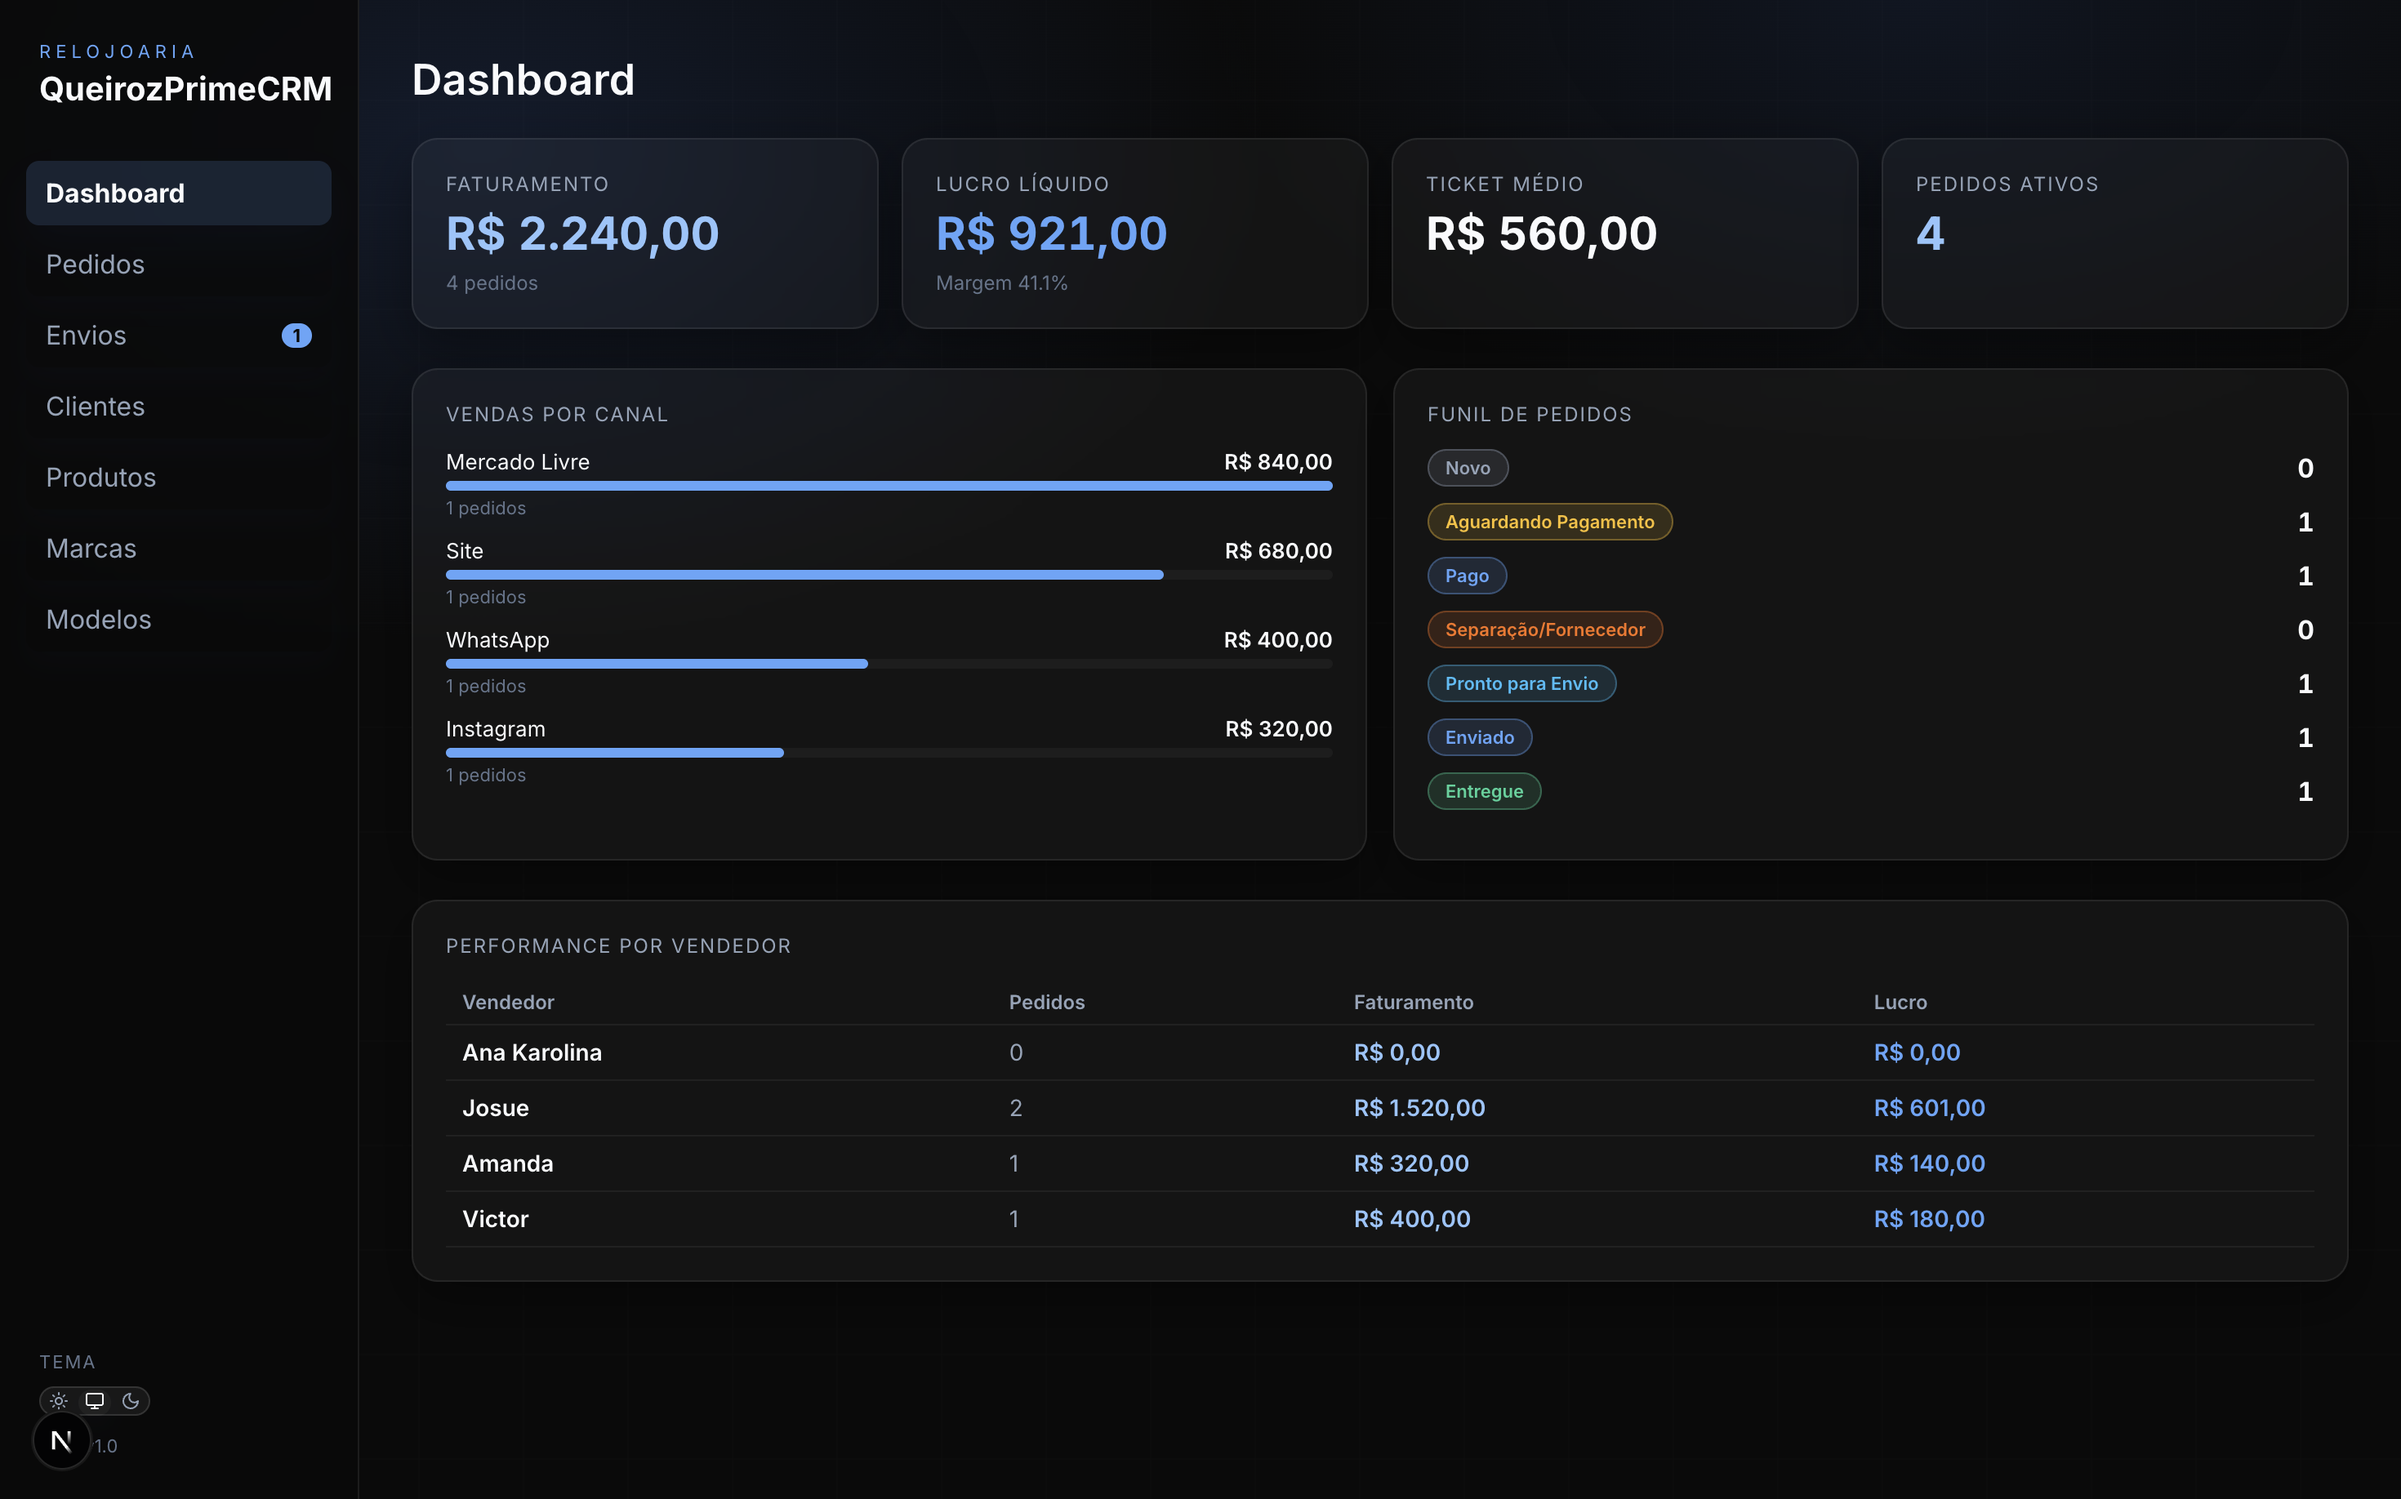
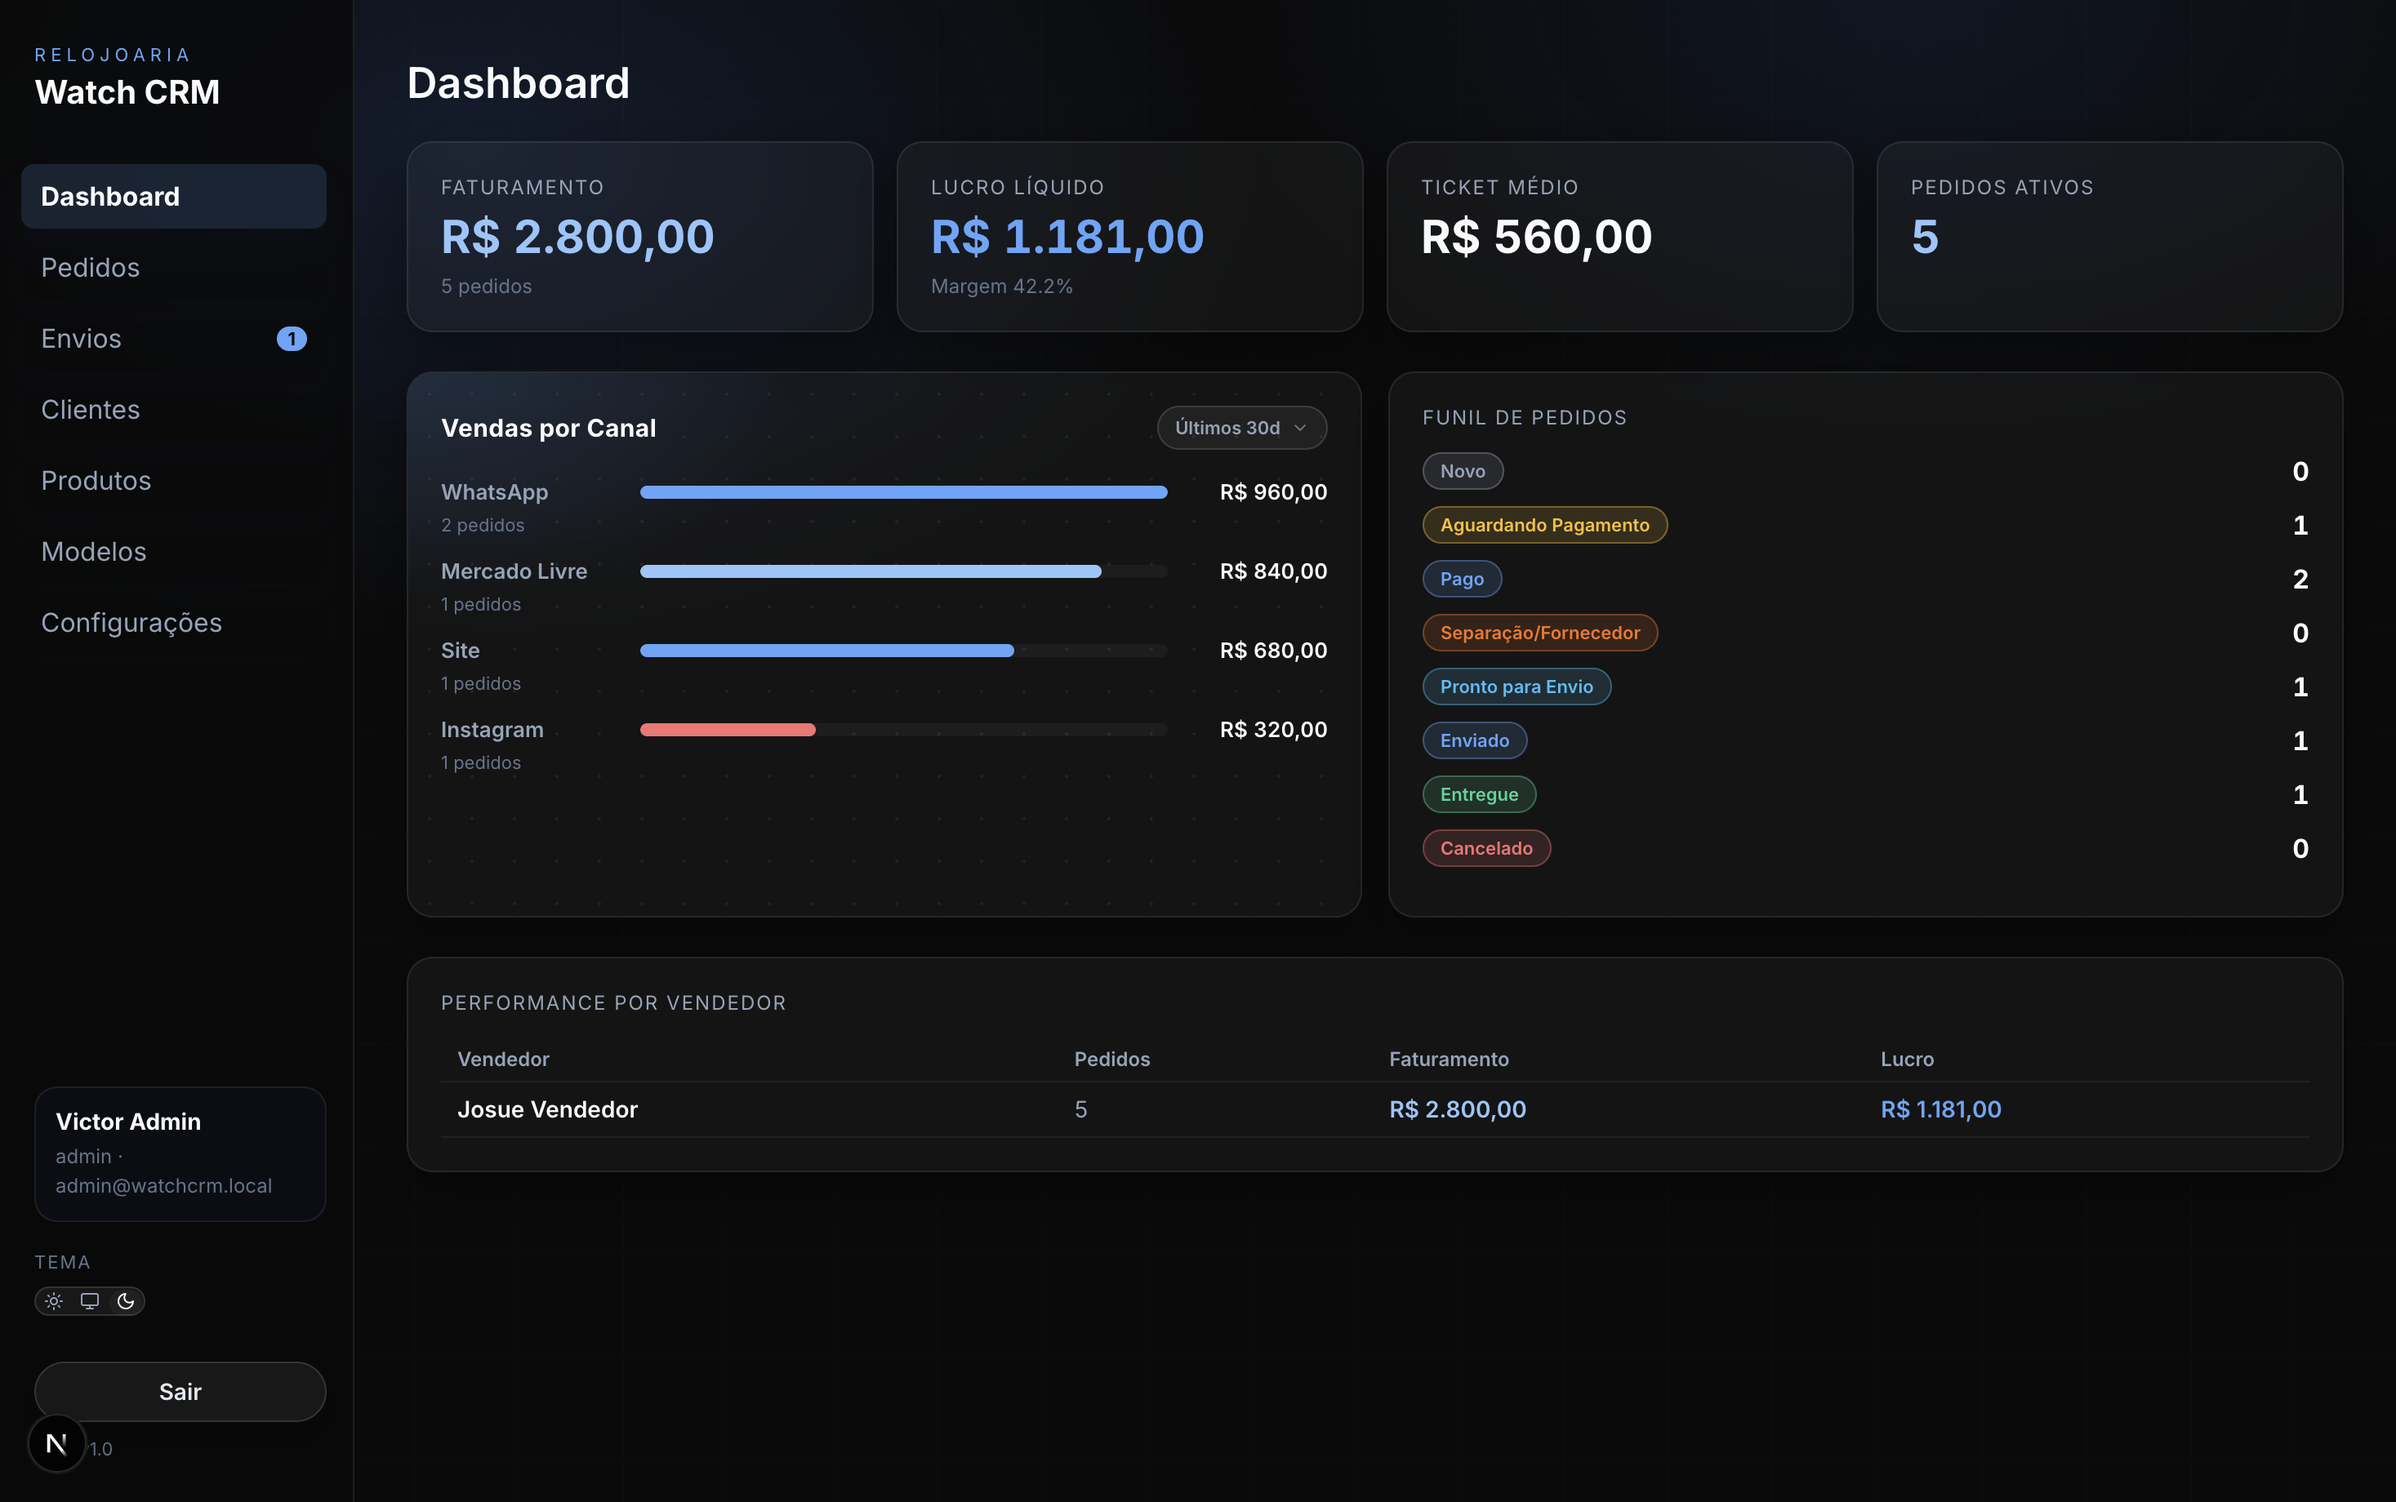
chore: rebrand projeto de Queiroz Prime para Watch CRM

diff --git a/frontend/src/features/crm/views/Models.tsx b/frontend/src/features/crm/views/Models.tsx
@@ -28,8 +28,8 @@ const Models: React.FC<Props> = ({ models, canCreate, onNew }) => {
       </div>
       <div className={styles.grid}>
         {models.map((m) => {
-          const imageSrc = m.imageUrl || "/logo-queiroz.png";
-          const shouldOptimize = imageSrc.startsWith("/");
+          const imageSrc = m.imageUrl;
+          const shouldOptimize = imageSrc?.startsWith("/") ?? false;
           return (
             <Card
               key={m.id}
@@ -37,14 +37,18 @@ const Models: React.FC<Props> = ({ models, canCreate, onNew }) => {
             >
               <div className={styles.media}>
                 <div className={styles.mediaBox}>
-                  <Image
-                    src={imageSrc}
-                    alt={m.name}
-                    fill
-                    sizes="(max-width: 768px) 100vw, 220px"
-                    unoptimized={!shouldOptimize}
-                    className={styles.image}
-                  />
+                  {imageSrc ? (
+                    <Image
+                      src={imageSrc}
+                      alt={m.name}
+                      fill
+                      sizes="(max-width: 768px) 100vw, 220px"
+                      unoptimized={!shouldOptimize}
+                      className={styles.image}
+                    />
+                  ) : (
+                    <div className={styles.imageFallback}>Sem imagem</div>
+                  )}
                 </div>
               </div>
               <div className={styles.cardBody}>

diff --git a/frontend/src/features/crm/views/LoginView.tsx b/frontend/src/features/crm/views/LoginView.tsx
@@ -10,7 +10,7 @@ type Props = {
 };
 
 const LoginView: React.FC<Props> = ({ loading, onLogin }) => {
-  const [email, setEmail] = useState("admin@queirozprimecrm.com");
+  const [email, setEmail] = useState("admin@watchcrm.local");
   const [password, setPassword] = useState("Admin123456!");
   const [error, setError] = useState("");
 
@@ -34,7 +34,7 @@ const LoginView: React.FC<Props> = ({ loading, onLogin }) => {
     <div className={styles.shell}>
       <div className={styles.panel}>
         <div className={styles.overline}>CRM interno</div>
-        <h1 className={styles.title}>Acesse o Queiroz Prime CRM</h1>
+        <h1 className={styles.title}>Acesse o Watch CRM</h1>
         <p className={styles.subtitle}>
           Sessão segura com permissões por papel e auditoria de ações críticas.
         </p>
@@ -58,11 +58,11 @@ const LoginView: React.FC<Props> = ({ loading, onLogin }) => {
         <div className={styles.hint}>
           Usuários seed:
           <br />
-          admin@queirozprimecrm.com
+          admin@watchcrm.local
           <br />
-          gerente@queirozprimecrm.com
+          gerente@watchcrm.local
           <br />
-          vendedor@queirozprimecrm.com
+          vendedor@watchcrm.local
         </div>
       </div>
     </div>

diff --git a/frontend/src/features/crm/components/Sidebar/Sidebar.tsx b/frontend/src/features/crm/components/Sidebar/Sidebar.tsx
@@ -25,7 +25,7 @@ const Sidebar: React.FC<Props> = ({ page, onNavigate, nav, readyCount, theme, on
   <div className={styles.wrapper}>
     <div className={styles.header}>
       <div className={styles.headerOverline}>Relojoaria</div>
-      <div className={styles.headerTitle}>QueirozPrimeCRM</div>
+      <div className={styles.headerTitle}>Watch CRM</div>
     </div>
 
     {nav.map((item) => {

diff --git a/frontend/src/app/layout.tsx b/frontend/src/app/layout.tsx
@@ -18,8 +18,8 @@ const inter = Inter({
 });
 
 export const metadata: Metadata = {
-  title: "Create Next App",
-  description: "Generated by create next app",
+  title: "Watch CRM",
+  description: "CRM para relojoaria com catálogo, pedidos, envios e autenticação segura.",
 };
 
 export default function RootLayout({

diff --git a/frontend/src/features/crm/views/Models.module.css b/frontend/src/features/crm/views/Models.module.css
@@ -65,6 +65,14 @@
   object-fit: contain;
 }
 
+.imageFallback {
+  color: var(--crm-text-soft);
+  font-size: 12px;
+  font-weight: 600;
+  letter-spacing: 0.08em;
+  text-transform: uppercase;
+}
+
 .cardBody {
   padding: 16px;
   display: grid;

diff --git a/backend/database/seeders/UserSeeder.php b/backend/database/seeders/UserSeeder.php
@@ -17,7 +17,7 @@ class UserSeeder extends Seeder
             [
                 'id' => 1,
                 'name' => 'Victor Admin',
-                'email' => 'admin@queirozprimecrm.com',
+                'email' => 'admin@watchcrm.local',
                 'password' => Hash::make('Admin123456!'),
                 'role' => UserRole::Admin->value,
                 'is_active' => true,
@@ -28,7 +28,7 @@ class UserSeeder extends Seeder
             [
                 'id' => 2,
                 'name' => 'Amanda Gerente',
-                'email' => 'gerente@queirozprimecrm.com',
+                'email' => 'gerente@watchcrm.local',
                 'password' => Hash::make('Gerente123456!'),
                 'role' => UserRole::Manager->value,
                 'is_active' => true,
@@ -39,7 +39,7 @@ class UserSeeder extends Seeder
             [
                 'id' => 3,
                 'name' => 'Josue Vendedor',
-                'email' => 'vendedor@queirozprimecrm.com',
+                'email' => 'vendedor@watchcrm.local',
                 'password' => Hash::make('Vendedor123456!'),
                 'role' => UserRole::Seller->value,
                 'is_active' => true,

diff --git a/DOCUMENTACAO.md b/DOCUMENTACAO.md
@@ -1,4 +1,4 @@
-# Queiroz Prime CRM — Documentação
+# Watch CRM — Documentação
 
 ## Visão Geral
 - Frontend em `frontend/`: Next.js (App Router) + React + TypeScript.
@@ -254,8 +254,8 @@ frontend/
 - MySQL:
   - Host: `localhost`
   - Porta: `3307`
-  - Database: `queiroz_prime`
-  - User: `queiroz`
+  - Database: `watch_crm`
+  - User: `watchcrm`
   - Password: `secret`
 
 ### Observação importante sobre o frontend em Docker

diff --git a/README.md b/README.md
@@ -46,8 +46,8 @@ CRM fullstack para relojoaria com autenticação stateful, catálogo, pedidos, f
 ### Produtos e Estoque
 ![Produtos e Estoque](imagens-do-sistema/produtos-e-estoque.png)
 
-### Marcas
-![Marcas](imagens-do-sistema/marcas.png)
+### Configurações
+![Configurações](imagens-do-sistema/configuracoes.png)
 
 ### Modelos
 ![Modelos](imagens-do-sistema/modelos.png)
